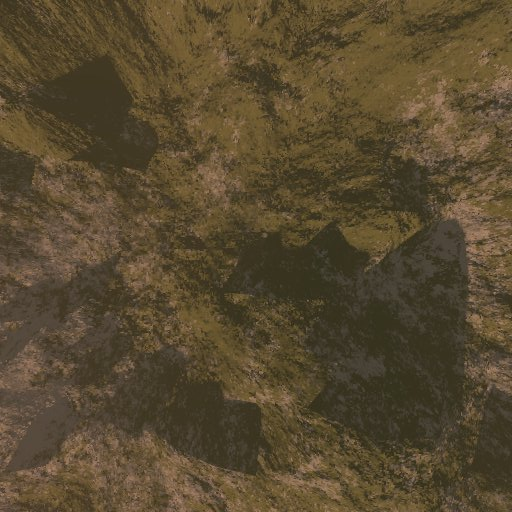
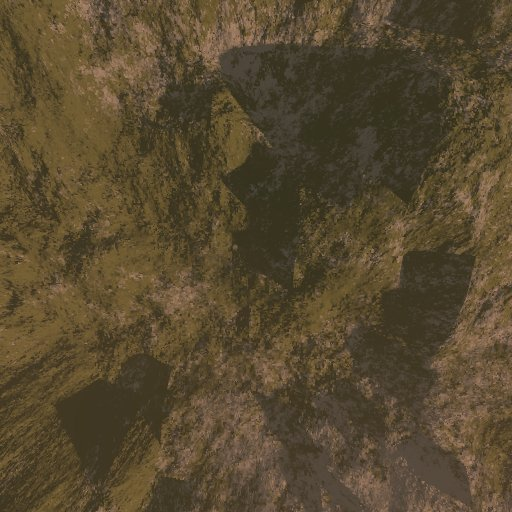
Partially reverted the skybox changes, such that now only a right/left texture exchange is needed. Skyboxes are still correctly oriented and other tools are still compatible.
git-svn-id: svn://svn.code.sf.net/p/irrlicht/code/trunk@1021 dfc29bdd-3216-0410-991c-e03cc46cb475

diff --git a/source/Irrlicht/CSkyBoxSceneNode.cpp b/source/Irrlicht/CSkyBoxSceneNode.cpp
@@ -110,19 +110,19 @@ CSkyBoxSceneNode::CSkyBoxSceneNode(video::ITexture* top, video::ITexture* bottom
 
 	Material[4] = mat;
 	Material[4].setTexture(0, top);
-	Vertices[16] = video::S3DVertex( l, l, l, 0,-1,0, video::SColor(255,255,255,255), t, t);
-	Vertices[17] = video::S3DVertex(-l, l, l, 0,-1,0, video::SColor(255,255,255,255), o, t);
-	Vertices[18] = video::S3DVertex(-l, l,-l, 0,-1,0, video::SColor(255,255,255,255), o, o);
-	Vertices[19] = video::S3DVertex( l, l,-l, 0,-1,0, video::SColor(255,255,255,255), t, o);
+	Vertices[16] = video::S3DVertex( l, l,-l, 0,-1,0, video::SColor(255,255,255,255), t, t);
+	Vertices[17] = video::S3DVertex( l, l, l, 0,-1,0, video::SColor(255,255,255,255), o, t);
+	Vertices[18] = video::S3DVertex(-l, l, l, 0,-1,0, video::SColor(255,255,255,255), o, o);
+	Vertices[19] = video::S3DVertex(-l, l,-l, 0,-1,0, video::SColor(255,255,255,255), t, o);
 
 	// create bottom side
 
 	Material[5] = mat;
 	Material[5].setTexture(0, bottom);
-	Vertices[20] = video::S3DVertex(-l,-l, l, 0,1,0, video::SColor(255,255,255,255), o, o);
-	Vertices[21] = video::S3DVertex( l,-l, l, 0,1,0, video::SColor(255,255,255,255), t, o);
-	Vertices[22] = video::S3DVertex( l,-l,-l, 0,1,0, video::SColor(255,255,255,255), t, t);
-	Vertices[23] = video::S3DVertex(-l,-l,-l, 0,1,0, video::SColor(255,255,255,255), o, t);
+	Vertices[20] = video::S3DVertex( l,-l, l, 0,1,0, video::SColor(255,255,255,255), o, o);
+	Vertices[21] = video::S3DVertex( l,-l,-l, 0,1,0, video::SColor(255,255,255,255), t, o);
+	Vertices[22] = video::S3DVertex(-l,-l,-l, 0,1,0, video::SColor(255,255,255,255), t, t);
+	Vertices[23] = video::S3DVertex(-l,-l, l, 0,1,0, video::SColor(255,255,255,255), o, t);
 }
 
 
